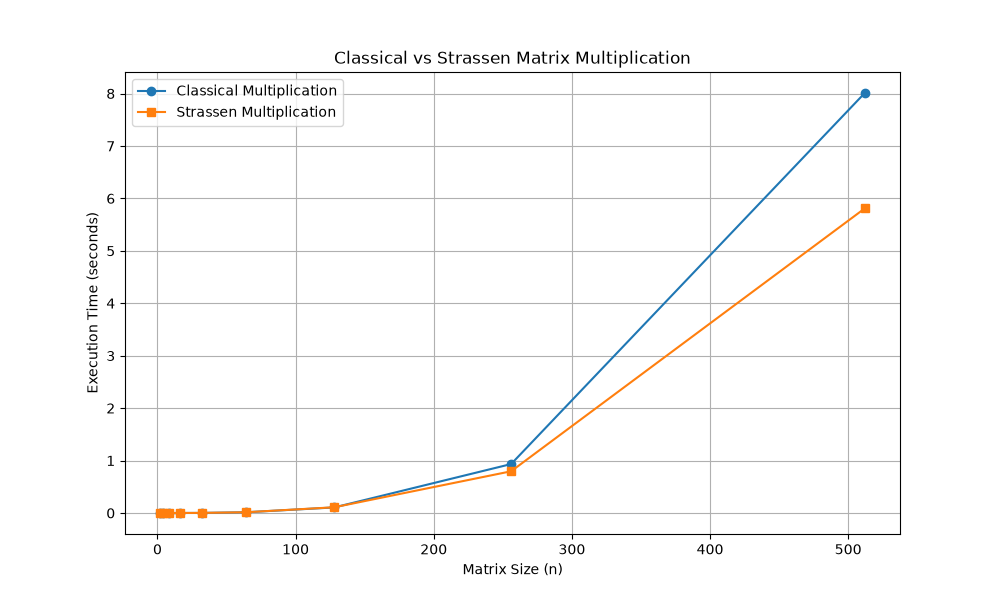
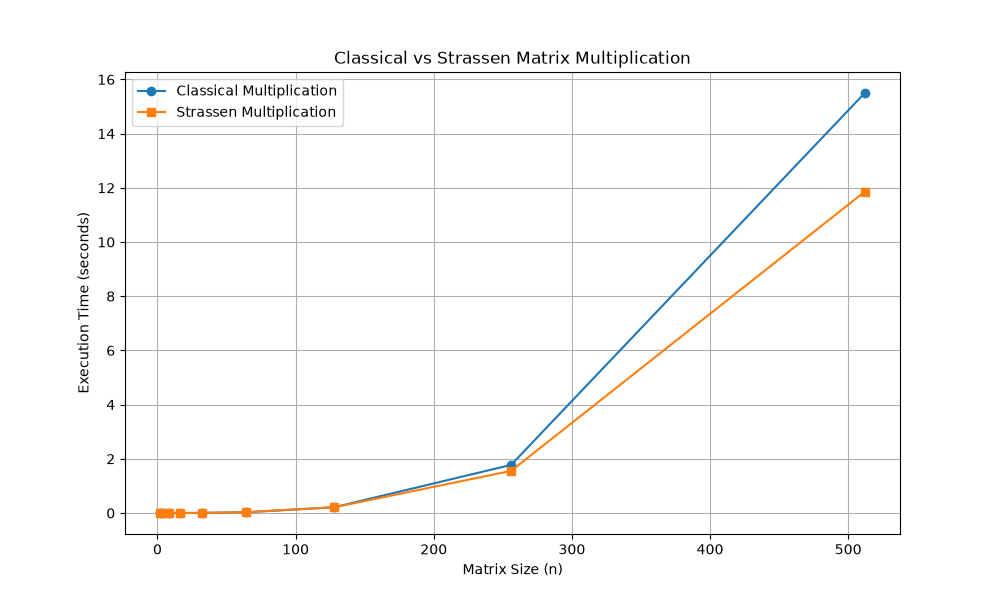
minor changes

diff --git a/10/tsp.py b/10/tsp.py
@@ -1,0 +1,113 @@
+# Travelling Salesman Problem using Dynamic Programming
+# Held-Karp Algorithm
+
+import math
+
+# Recurrence:
+# dp[mask][i] = minimum cost to start at 0,
+# visit all locations in mask, and end at i.
+#
+# dp[mask][i] = min(dp[mask without i][j] + cost[j][i])
+#
+# Base Case:
+# dp[1][0] = 0
+# Starting at location 0 has zero cost.
+
+def tsp(cost, n):
+
+    total_masks = 1 << n
+    INF = math.inf
+
+    # DP table
+    dp = [[INF] * n for _ in range(total_masks)]
+
+    # Parent table for route reconstruction
+    parent = [[-1] * n for _ in range(total_masks)]
+
+    # Base case: Start at location 0
+    dp[1][0] = 0
+
+    # Iterate through all possible subsets
+    for mask in range(total_masks):
+
+        # Only consider subsets containing location 0
+        if not (mask & 1):
+            continue
+
+        for i in range(n):
+
+            # Check whether location i is visited
+            if not (mask & (1 << i)):
+                continue
+
+            if dp[mask][i] == INF:
+                continue
+
+            # Try visiting every unvisited location
+            for j in range(1, n):
+
+                if not (mask & (1 << j)):
+
+                    new_mask = mask | (1 << j)
+
+                    new_cost = dp[mask][i] + cost[i][j]
+
+                    if new_cost < dp[new_mask][j]:
+
+                        dp[new_mask][j] = new_cost
+                        parent[new_mask][j] = i
+
+    # All locations visited
+    full_mask = total_masks - 1
+
+    # Find minimum cost to return to location 0
+    min_cost = INF
+    last_location = -1
+
+    for i in range(1, n):
+
+        total_cost = dp[full_mask][i] + cost[i][0]
+
+        if total_cost < min_cost:
+            min_cost = total_cost
+            last_location = i
+
+    # Reconstruct optimal route
+    route = []
+    mask = full_mask
+    current = last_location
+
+    while current != 0:
+
+        route.append(current)
+
+        previous = parent[mask][current]
+
+        mask ^= (1 << current)
+        current = previous
+
+    route.append(0)
+
+    route.reverse()
+    route.append(0)
+
+    return min_cost, route
+
+
+# Main program
+n = int(input("Enter number of locations: "))
+
+print("Enter the cost matrix:")
+
+cost = []
+
+for i in range(n):
+    row = list(map(int, input().split()))
+    cost.append(row)
+
+# Calculate optimal tour
+min_cost, route = tsp(cost, n)
+
+print("\nMinimum tour cost:", min_cost)
+
+print("Optimal route:", " -> ".join(map(str, route)))

diff --git a/10/benchmark.py b/10/benchmark.py
@@ -1,0 +1,89 @@
+import time
+import random
+from itertools import permutations
+
+
+def brute_force(cost, n):
+
+    min_cost = float('inf')
+
+    for path in permutations(range(1, n)):
+
+        current_cost = 0
+        current = 0
+
+        for next_location in path:
+            current_cost += cost[current][next_location]
+            current = next_location
+
+        current_cost += cost[current][0]
+
+        min_cost = min(min_cost, current_cost)
+
+    return min_cost
+
+
+def held_karp(cost, n):
+
+    total_masks = 1 << n
+    INF = float('inf')
+
+    dp = [[INF] * n for _ in range(total_masks)]
+
+    dp[1][0] = 0
+
+    for mask in range(total_masks):
+
+        if not (mask & 1):
+            continue
+
+        for i in range(n):
+
+            if not (mask & (1 << i)):
+                continue
+
+            if dp[mask][i] == INF:
+                continue
+
+            for j in range(1, n):
+
+                if not (mask & (1 << j)):
+
+                    new_mask = mask | (1 << j)
+
+                    dp[new_mask][j] = min(
+                        dp[new_mask][j],
+                        dp[mask][i] + cost[i][j]
+                    )
+
+    full_mask = total_masks - 1
+
+    return min(
+        dp[full_mask][i] + cost[i][0]
+        for i in range(1, n)
+    )
+
+
+print("TSP PERFORMANCE COMPARISON")
+print("-" * 65)
+print(f"{'Locations':<15}{'Brute Force (s)':<23}{'DP (s)':<15}")
+print("-" * 65)
+
+for n in [6, 8, 10, 12]:
+
+    random.seed(42)
+
+    cost = [[0 if i == j else random.randint(1, 100)
+             for j in range(n)] for i in range(n)]
+
+    start = time.perf_counter()
+    brute_force(cost, n)
+    brute_time = time.perf_counter() - start
+
+    start = time.perf_counter()
+    held_karp(cost, n)
+    dp_time = time.perf_counter() - start
+
+    print(f"{n:<15}{brute_time:<23.6f}{dp_time:<15.6f}")
+
+print("-" * 65)

diff --git a/10/brute_force.py b/10/brute_force.py
@@ -1,0 +1,48 @@
+# Travelling Salesman Problem using Brute Force
+
+from itertools import permutations
+
+
+def tsp_brute_force(cost, n):
+
+    min_cost = float('inf')
+    best_route = []
+
+    # Generate all permutations of locations except 0
+    for path in permutations(range(1, n)):
+
+        current_cost = 0
+        current_location = 0
+
+        # Calculate the cost of the route
+        for next_location in path:
+
+            current_cost += cost[current_location][next_location]
+            current_location = next_location
+
+        # Return to starting location
+        current_cost += cost[current_location][0]
+
+        # Update minimum cost
+        if current_cost < min_cost:
+            min_cost = current_cost
+            best_route = [0] + list(path) + [0]
+
+    return min_cost, best_route
+
+
+# Main program
+n = int(input("Enter number of locations: "))
+
+print("Enter the cost matrix:")
+
+cost = []
+
+for i in range(n):
+    row = list(map(int, input().split()))
+    cost.append(row)
+
+min_cost, route = tsp_brute_force(cost, n)
+
+print("\nMinimum tour cost:", min_cost)
+print("Optimal route:", " -> ".join(map(str, route)))
